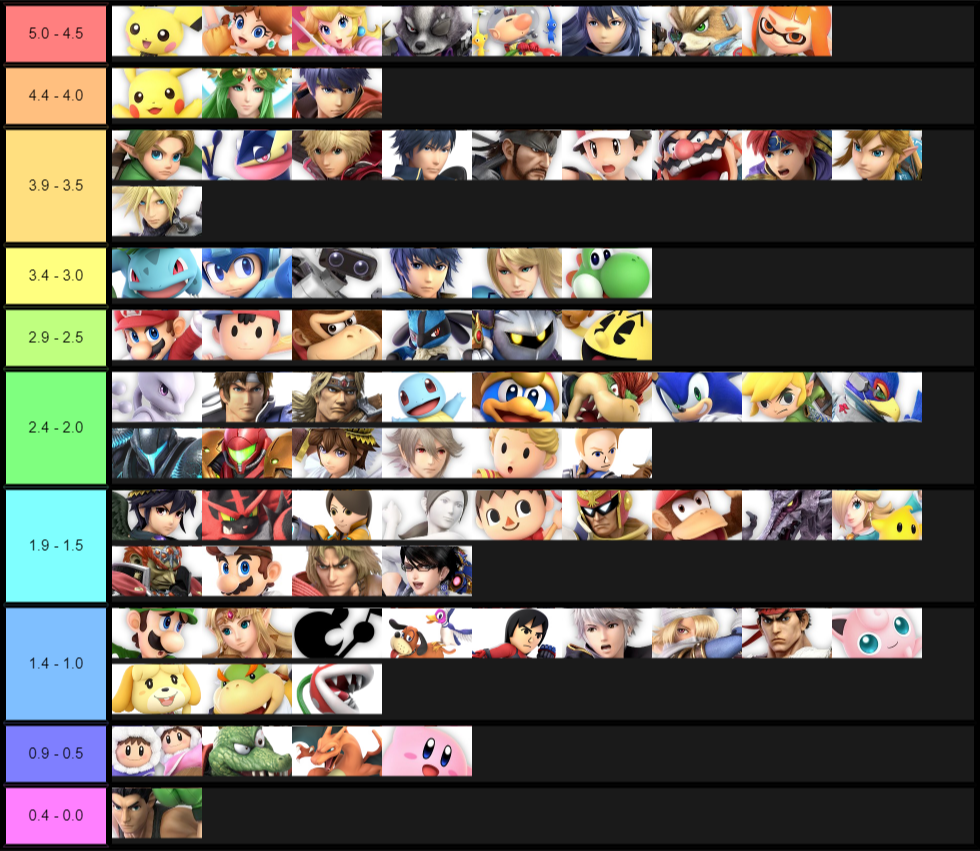
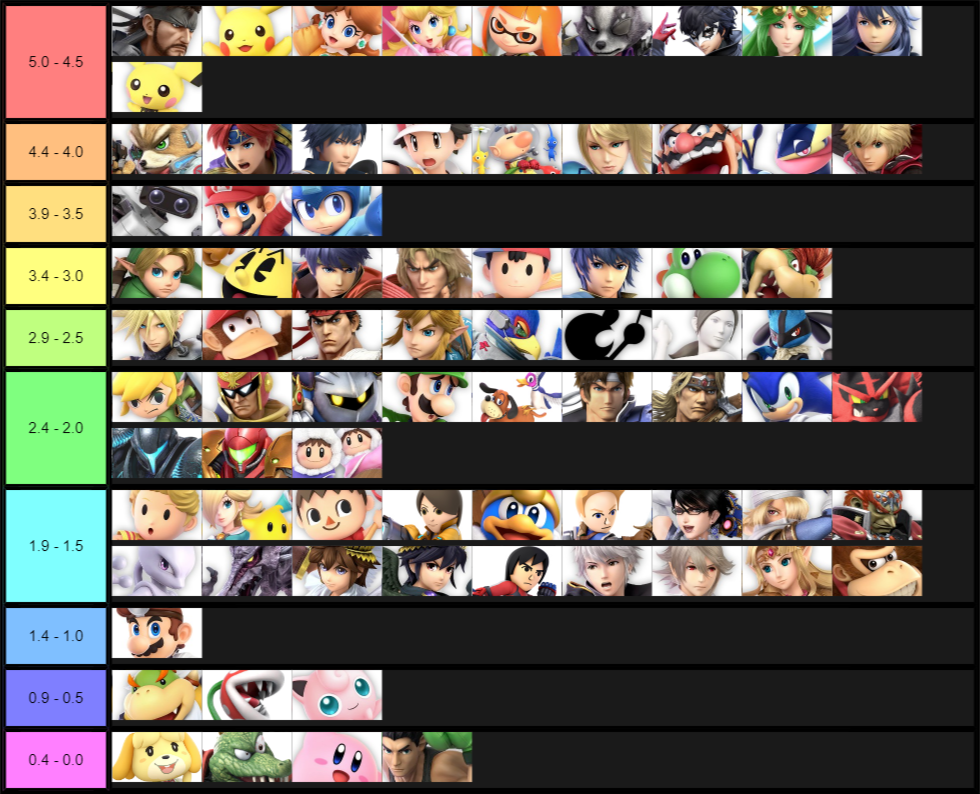
New Ultimate tierlist

diff --git a/commands/tierlist.js b/commands/tierlist.js
@@ -47,7 +47,7 @@ module.exports = {
             case 'ultimate':
             case 'u':
             case '5':
-                message.channel.send('This tier list is not an official tier list. It was made by averaging the tier lists from pro players. Last updated: 03/12/2019', {file: 'tierlists/ultimatetl.png'});
+                message.channel.send('This tier list is not an official tier list. It was made by averaging the tier lists from pro players. Last updated: 07/19/2019', {file: 'tierlists/ultimatetl.png'});
                 break;
             default:
                 message.channel.send('You didn\'t specify a Smash game! (64/melee/brawl/brawlminus/projectm/4/ultimate)');
